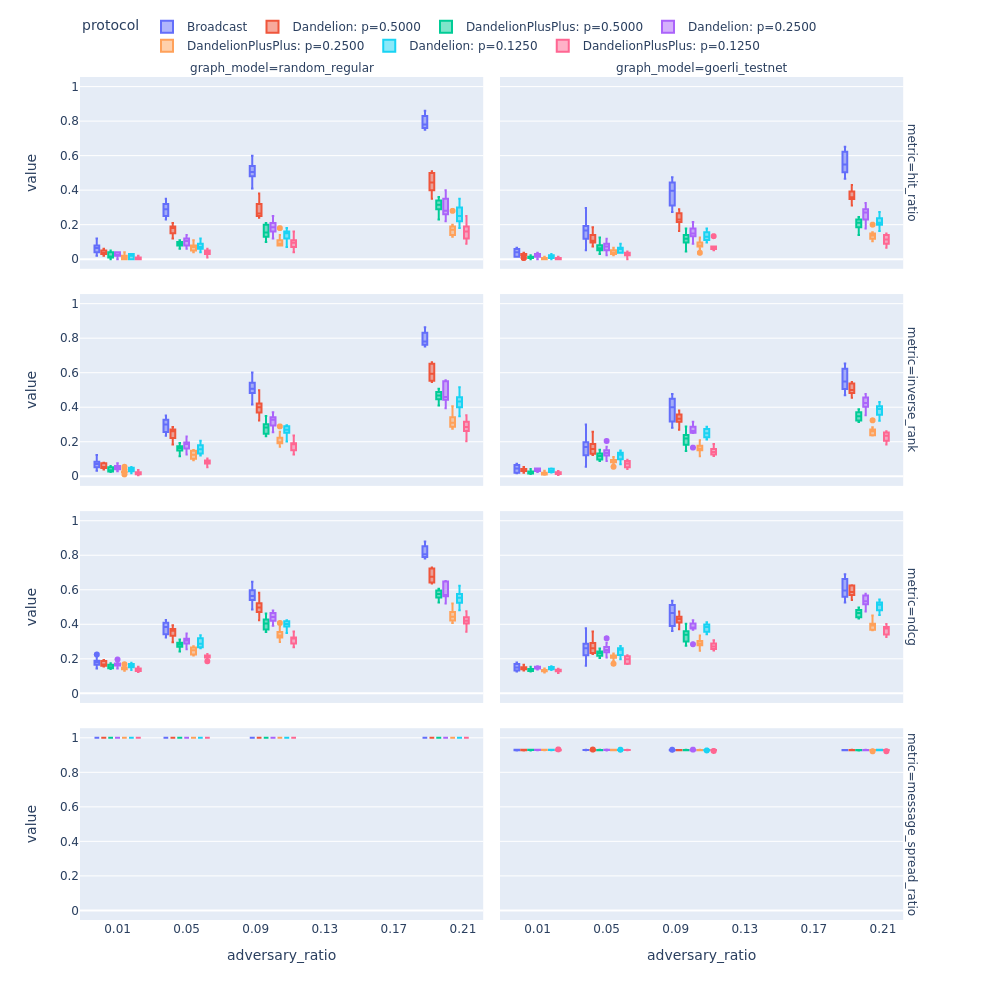
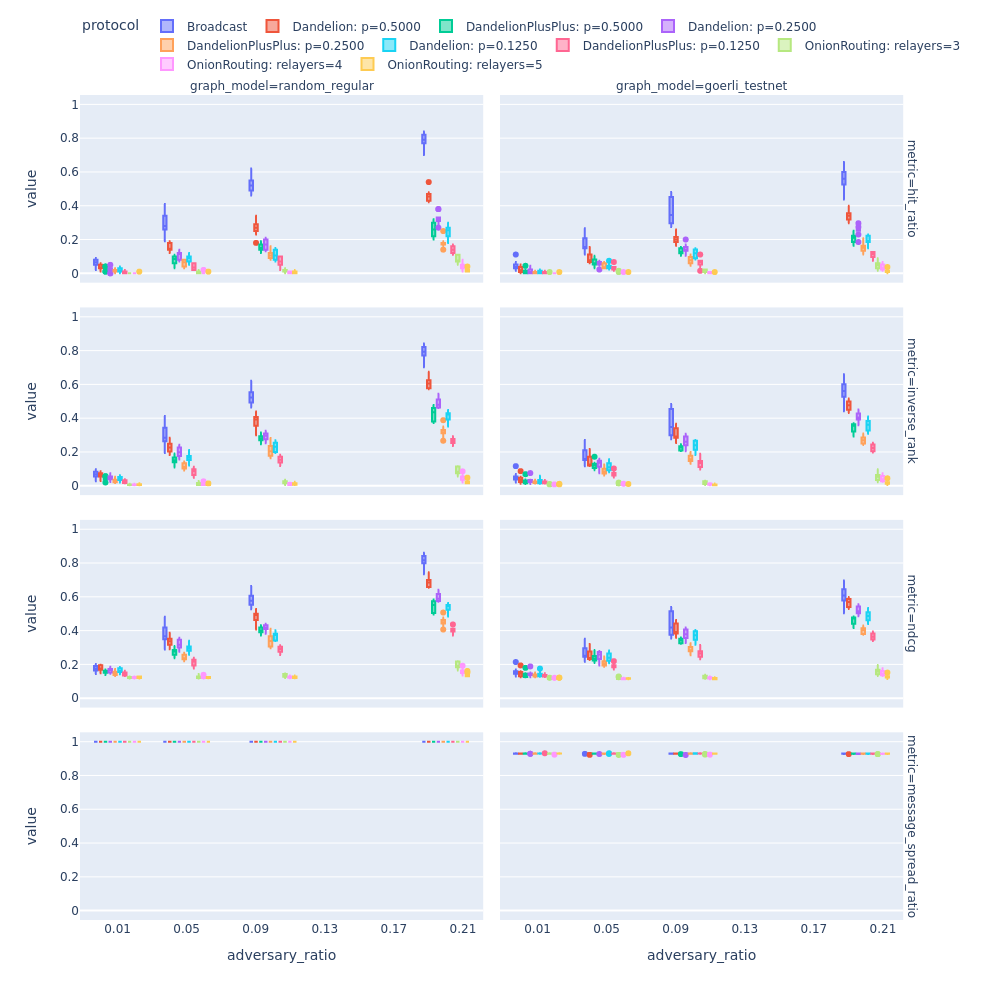
several figures were updated with Onion Routing results

diff --git a/ethp2psim/experiments.py b/ethp2psim/experiments.py
@@ -131,6 +131,7 @@ def shorten_protocol_name(x: str) -> str:
     'Broadcast'
     """
     val = x.replace("Protocol", "").replace("spreading_proba", "p")
+    val = val.split("num_channels")[0].replace("num_relayers", "relayers")
     val = val.split("broadcast")[0][:-1].replace("(", ": ")
     if val[-1] == ",":
         val = val[:-1]
